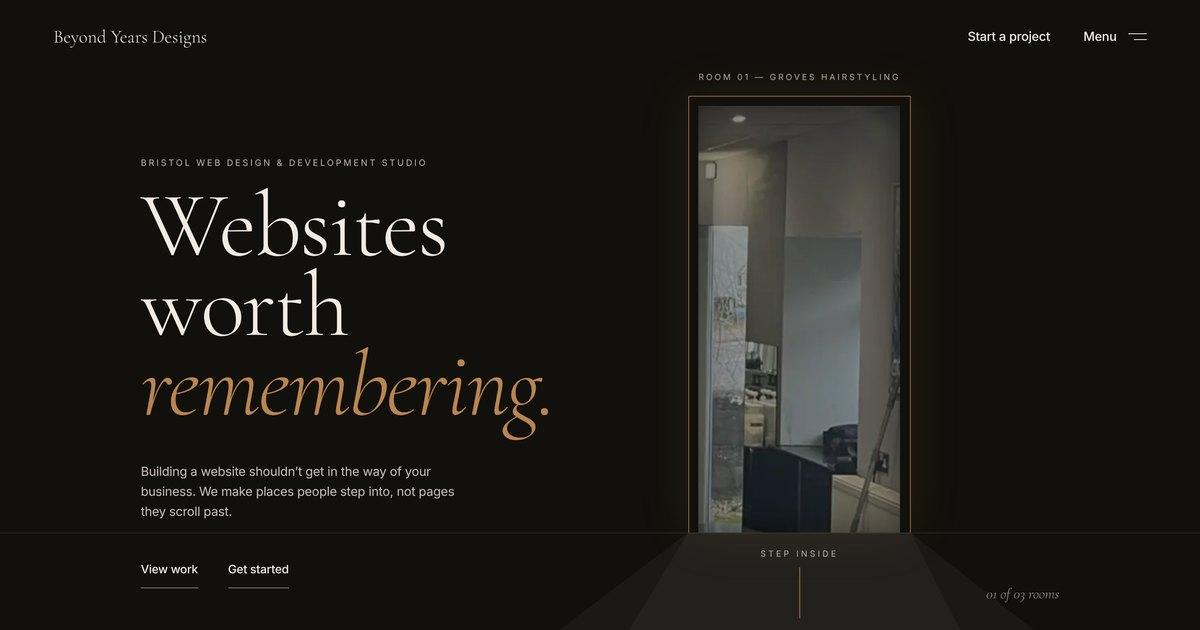
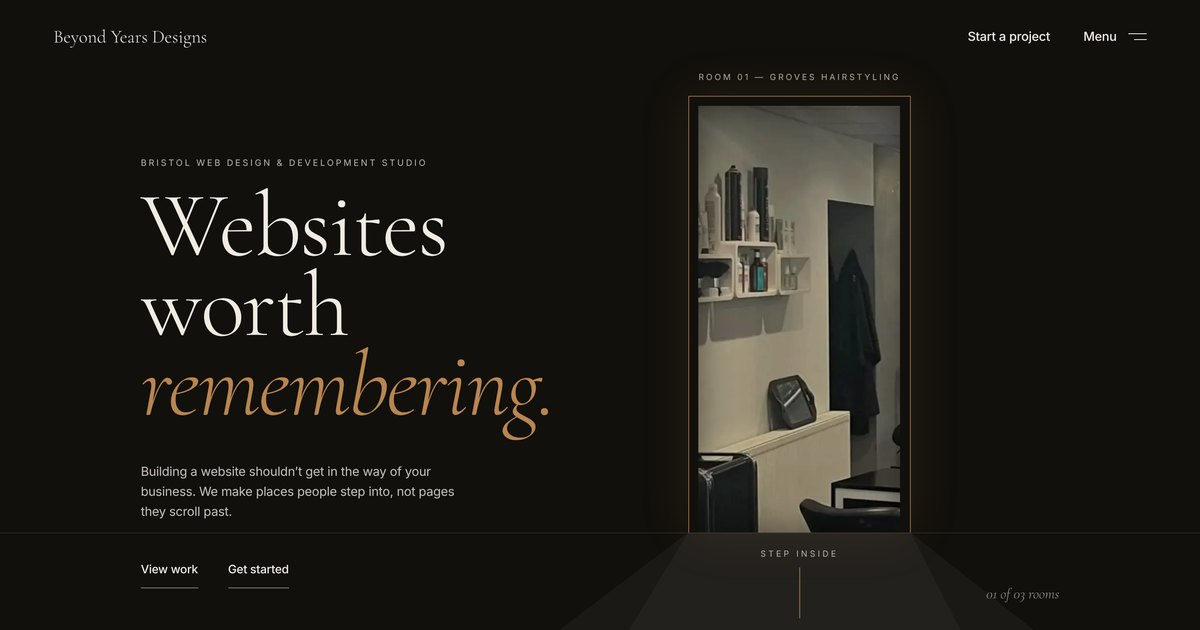
Use a sharper, clearer salon photo in the hero doorway
The door showed groves-salon.webp: a 480px cut of the Groves hero,
stretched into a tall frame and zoomed, so it read as a blur of mirror
and wall. It now shows a full-resolution strip from the left of the
same photo (left of that site's headline): the product shelves, a gown
and the styling station, lifted a little from the darkening the Groves
site puts over its hero. 470px with a 300px copy; the share image is
recaptured with it.

Claude-Session: https://claude.ai/code/session_01TU1Dvod3SdsuxJETvmbWk1

Changed region(s): [[0.555, 0.1508, 0.7708, 0.8444]]

diff --git a/src/components/studio/hero/HeroDoorway.jsx b/src/components/studio/hero/HeroDoorway.jsx
@@ -15,8 +15,11 @@ import "./doorway.css";
 // always reaches the bottom. Smaller screens follow the 390px phone mock-up,
 // with the door above the headline.
 
-const SALON = "/work/groves-salon.webp";
-const SALON_SRCSET = "/work/groves-salon-400.webp 400w, /work/groves-salon.webp 480w";
+// A strip from the left of the Groves homepage's own hero photo (left of its
+// headline; captures/groves-hairstyling/01-home-hero-groves.webp), at full
+// resolution and lifted a little from the darkening that site puts over it
+const SALON = "/work/groves-doorway.webp";
+const SALON_SRCSET = "/work/groves-doorway-300.webp 300w, /work/groves-doorway.webp 470w";
 
 export default function HeroDoorway() {
   const ref = useRef(null);
@@ -90,7 +93,7 @@ function Door({ className = "", style }) {
         <img
           src={SALON}
           srcSet={SALON_SRCSET}
-          sizes="(min-width: 1024px) 300px, 200px"
+          sizes="(min-width: 1024px) 360px, 235px"
           alt=""
           decoding="async"
           className="th-drift h-full w-full object-cover"
